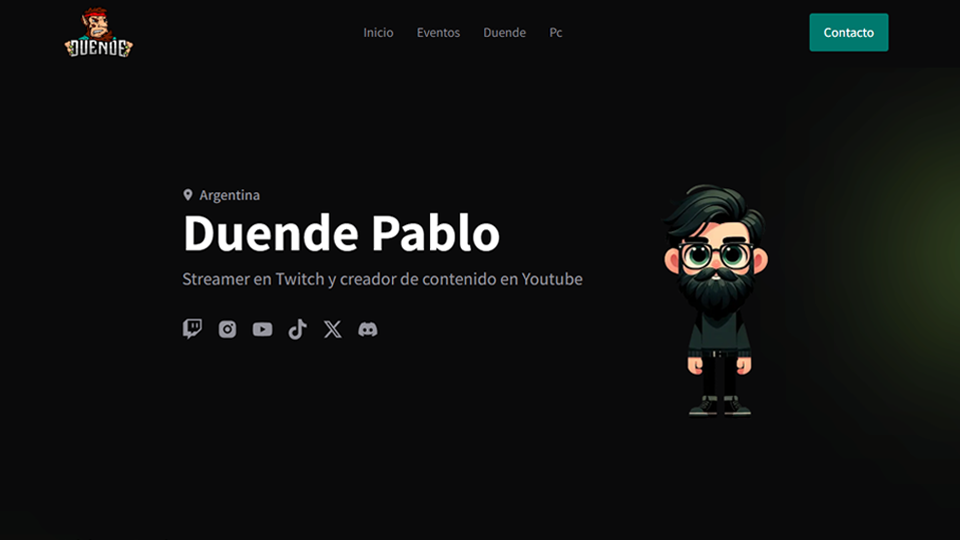
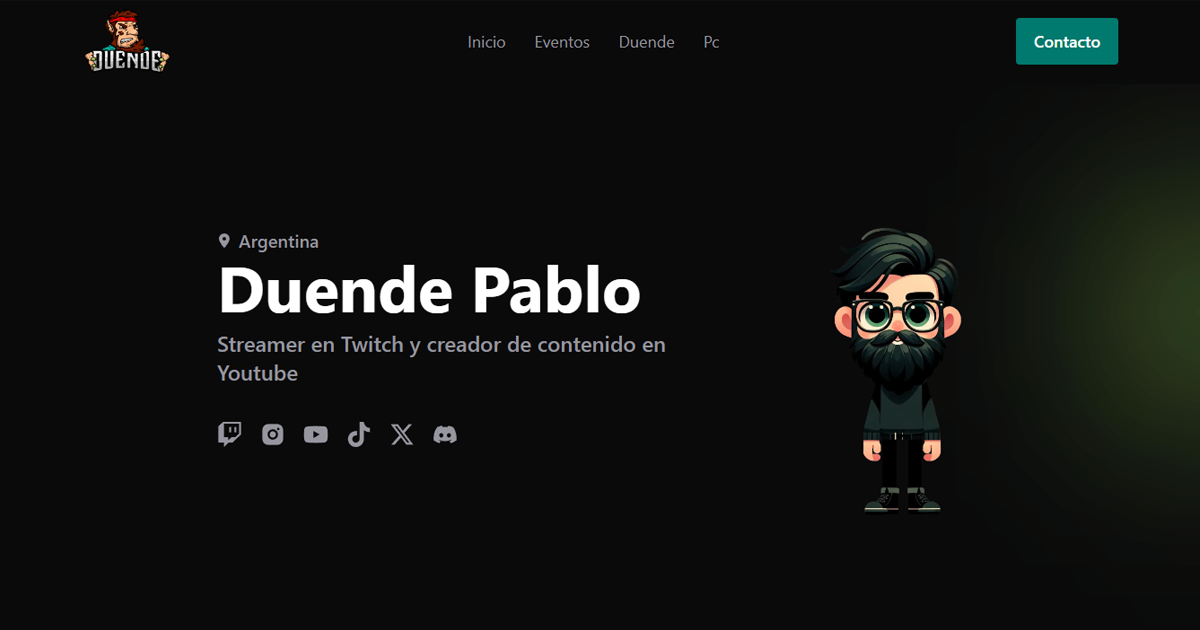
og 2

diff --git a/app/layout.js b/app/layout.js
@@ -14,12 +14,14 @@ export const metadata = {
     title: 'Duende Pablo - Streamer Argentino',
     description: 'Creador de contenido de Twitch y Youtube - Argentina',
     url: 'https://duende-pablo.vercel.app/',
+    image: '/opengraph-image.png',
     type: 'website',
   },
   twitter: {
     card: 'summary_large_image',
     title: 'Duende Pablo - Streamer Argentino',
     description: 'Creador de contenido de Twitch y Youtube - Argentina',
+    image: ['/opengraph-image.png'],
   },
 };
 
